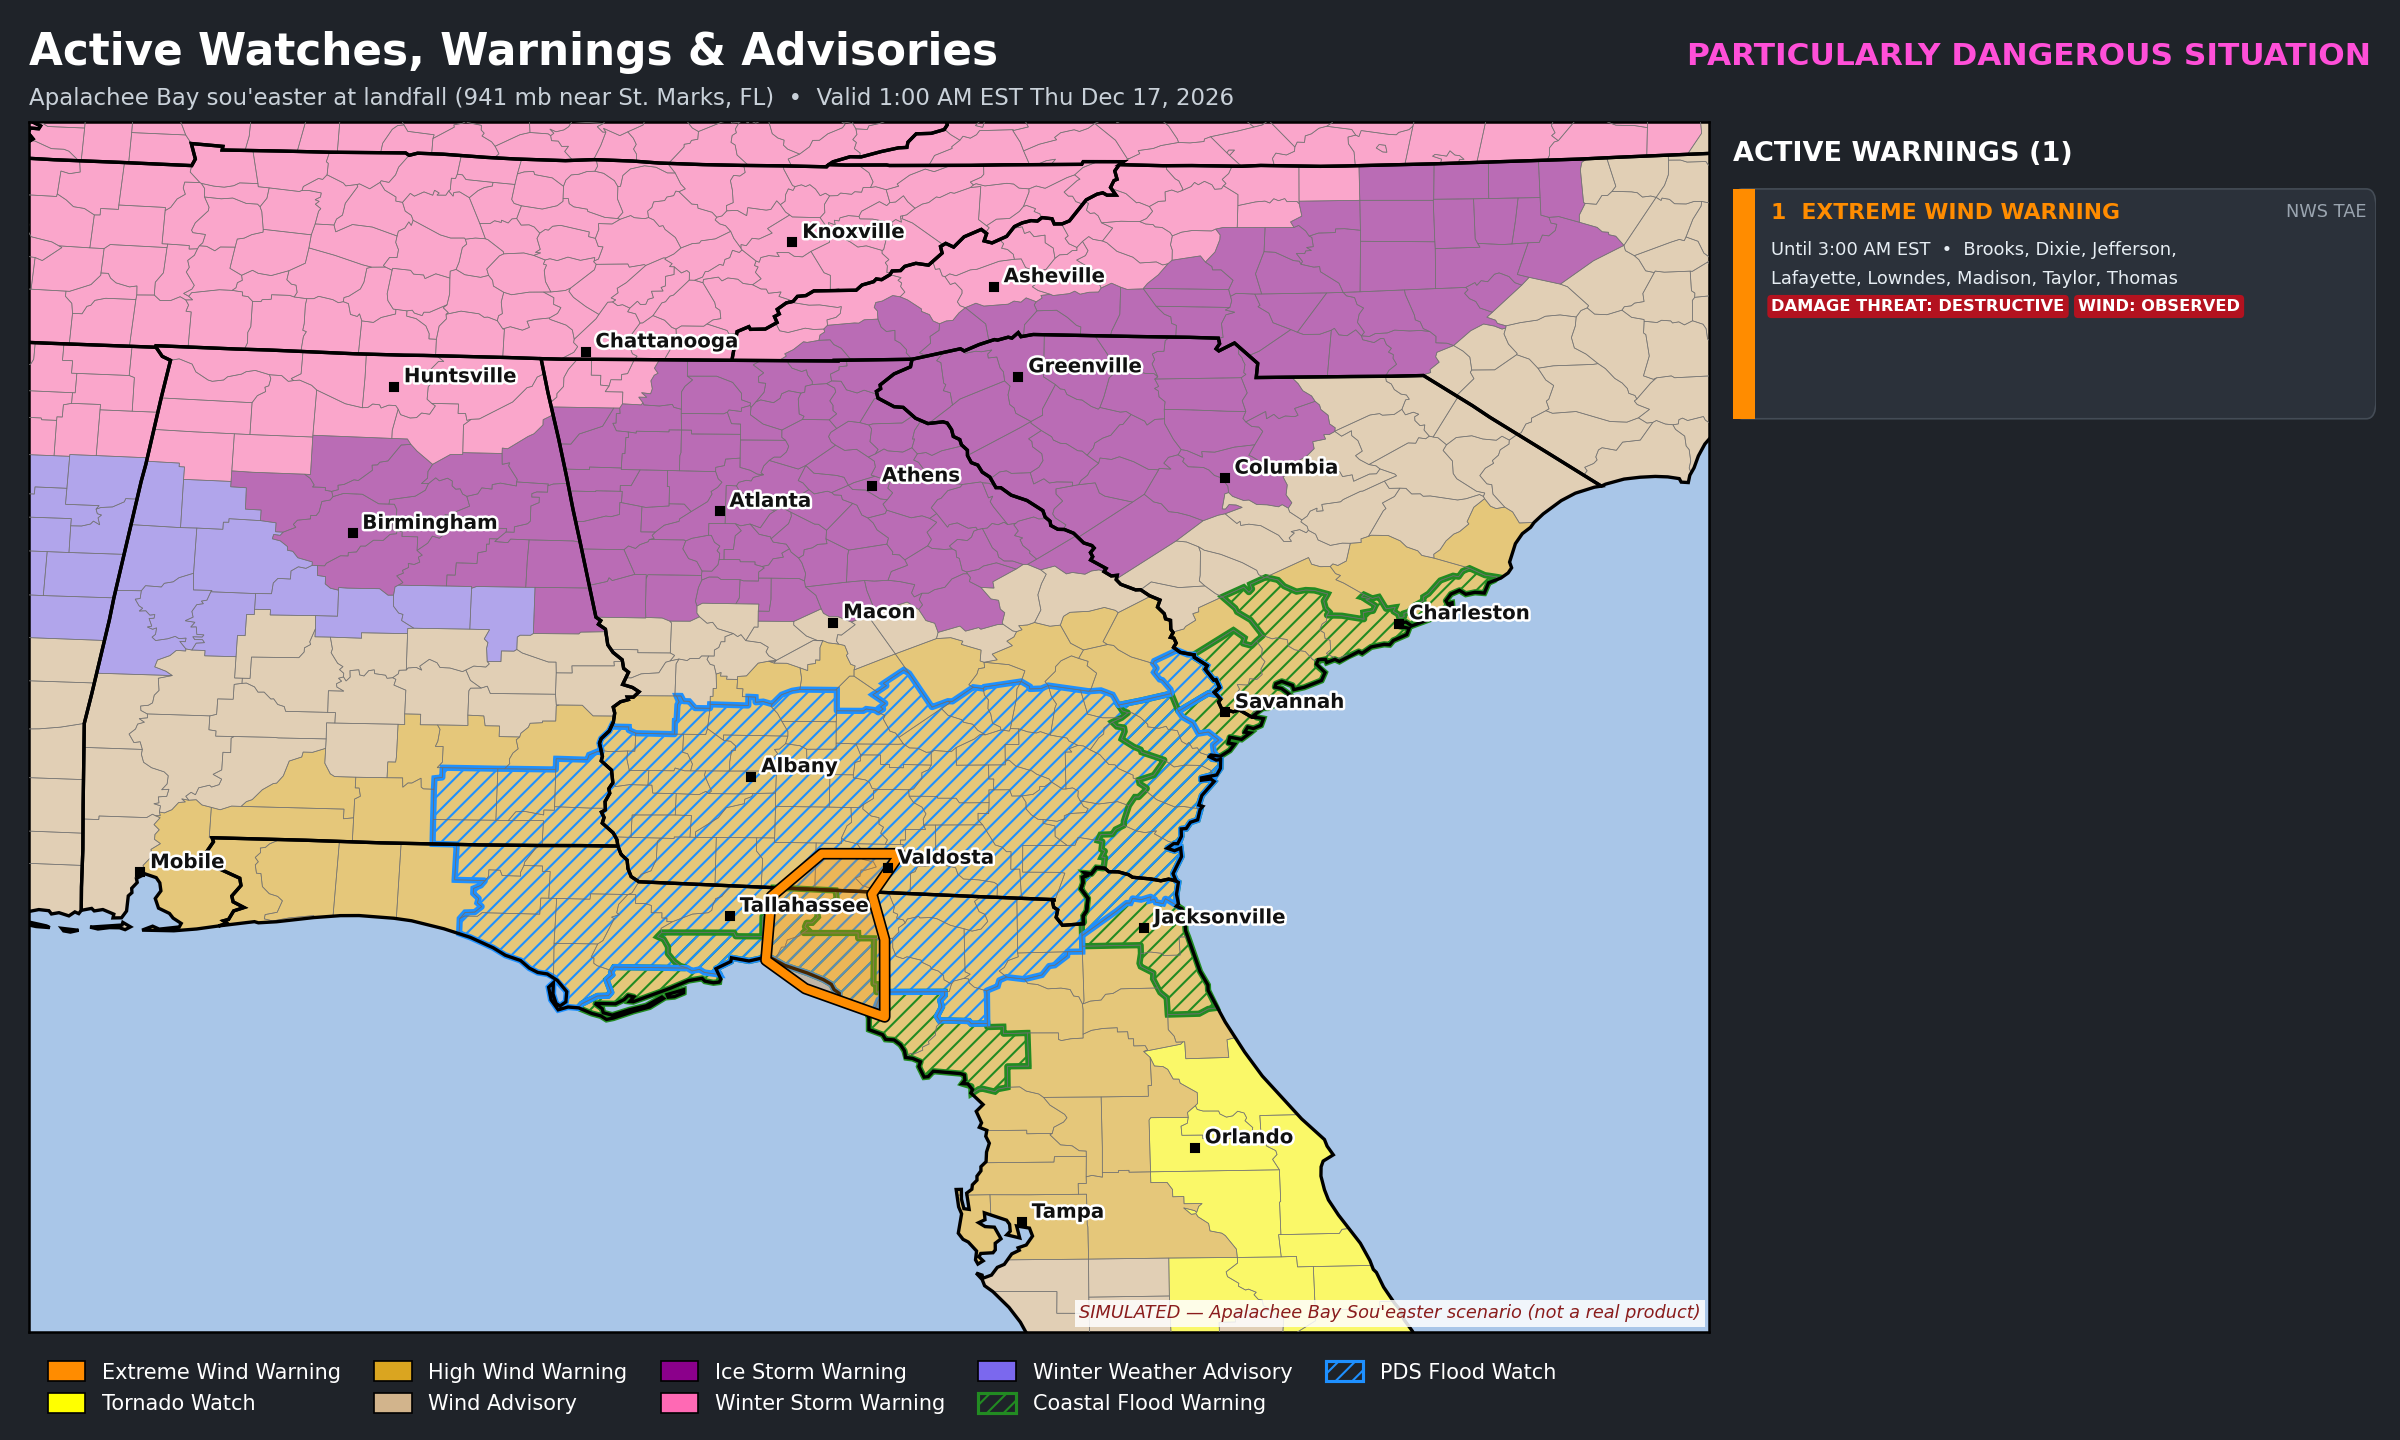
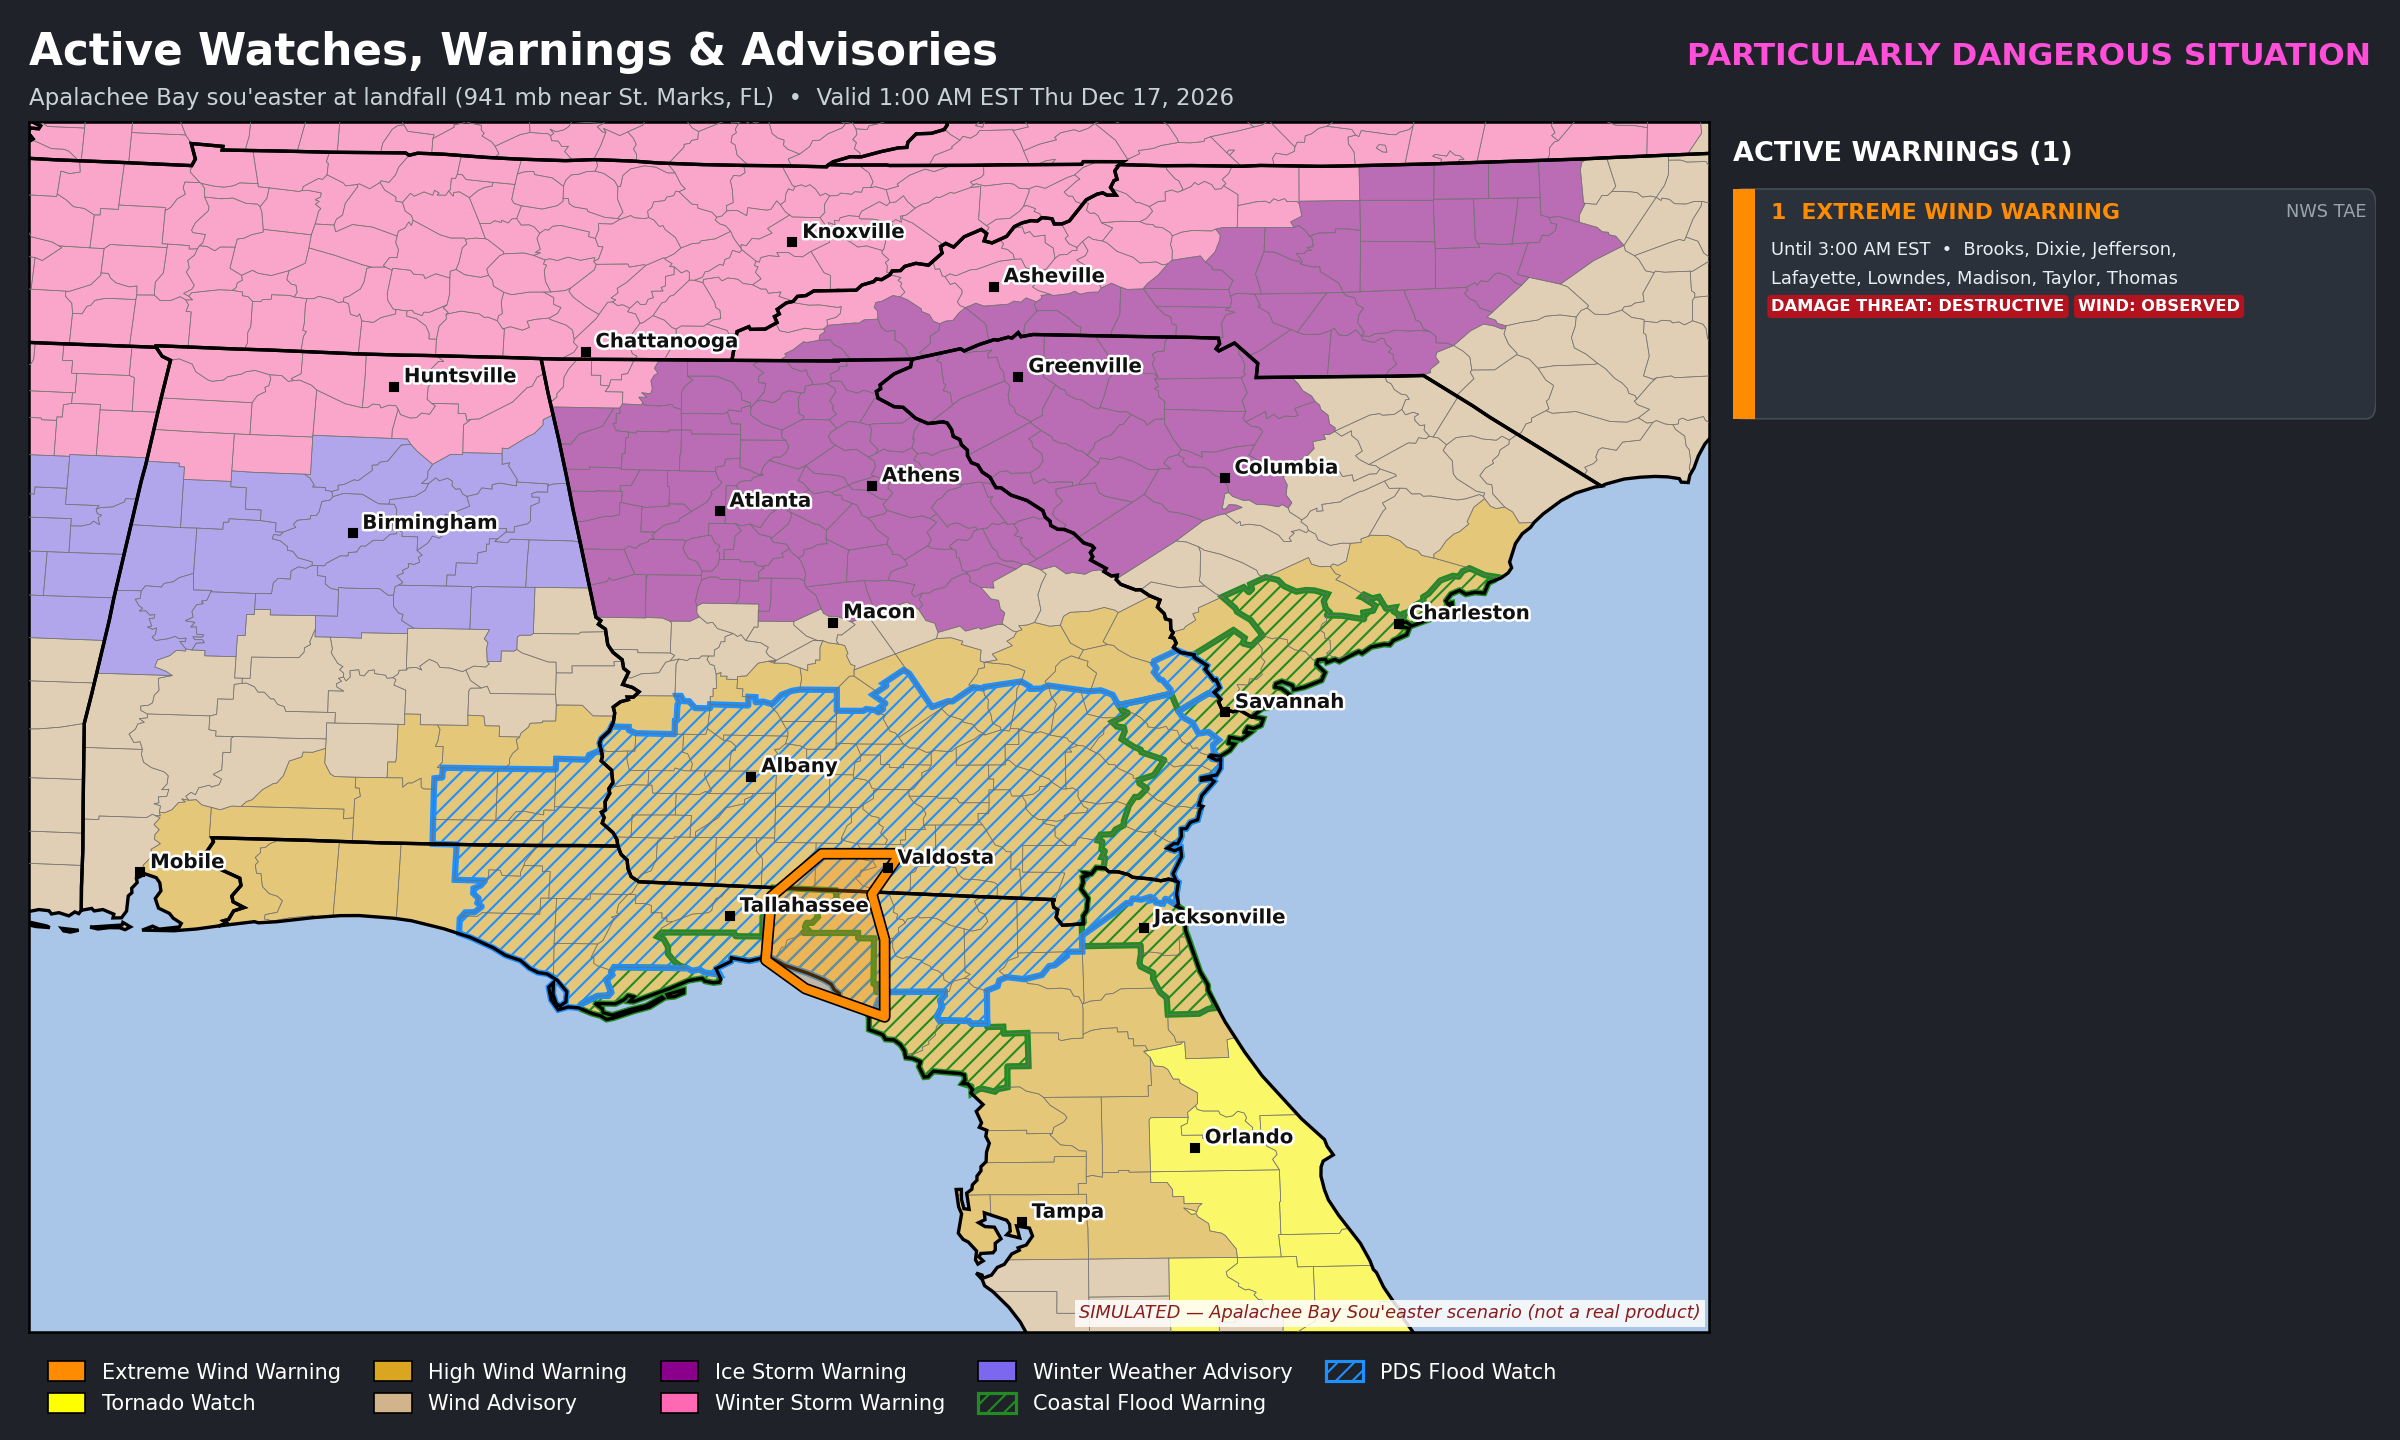
Apalachee: pull Ice Storm Warning back to the GA line
Birmingham and east-central Alabama sit near the dry slot with mostly sleet,
so they move to the Winter Weather Advisory; SCENARIO.md gains ice totals.

Claude-Session: https://claude.ai/code/session_016qAEvTSxuEoK88s5Aye3CY

Changed region(s): [[0.0938, 0.2812, 0.25, 0.4375]]

diff --git a/scenarios/apalachee_soueaster_2026/SCENARIO.md b/scenarios/apalachee_soueaster_2026/SCENARIO.md
@@ -20,7 +20,7 @@ Hour 0 = Tue Dec 15 00Z. December, so local time is EST (UTC−5).
 | Surge | Coastal Flood Warning: 10–15 ft above ground Keaton Beach–Steinhatchee, 8–12 ft St. Marks–Econfina, 4–7 ft Franklin County; multi-tide flooding on the GA/SC coast |
 | Convection | Squall line with embedded supercells across the Big Bend and Florida peninsula Wed afternoon–night; SPC Day 2 Enhanced Risk |
 | Rain | 6–10 in. Big Bend/south Georgia, locally 12 near Valdosta–Waycross, on soils saturated by a record-wet El Niño autumn (FFG 1.5–2.5 in./3 h). WPC: Day 1 (Wed) Moderate Risk; Day 2 (Thu 12Z–Fri 12Z) **High Risk** from Dothan and Albany through Tallahassee and Valdosta as the low loops; **PDS Flood Watch** across the TAE area (FFATAE) stressing floodwaters full of live power lines, debris and sewage |
-| Winter | Ice Storm Warning across most of the wedge: north and central Georgia including Atlanta, east-central Alabama including Birmingham, the Upstate and Midlands of SC, and the NC Piedmont. Winter Storm Warning to the north (north Alabama, NE Mississippi, Tennessee, the southern Appalachians, southern Virginia: 12–24 in. snow, thundersnow). Winter Weather Advisory only as a thin sleet/ice fringe in central Alabama and Mississippi. |
+| Winter | Ice Storm Warning across most of the wedge: north and central Georgia including Atlanta, the Upstate and Midlands of SC, and the NC Piedmont. Winter Storm Warning to the north (north Alabama, NE Mississippi, Tennessee, the southern Appalachians, southern Virginia: 12–24 in. snow, thundersnow). Winter Weather Advisory for central and east-central Alabama (including Birmingham, near the dry slot) and Mississippi: mostly sleet, light ice. Ice accretion: 1.2–1.5 in. (locally 1.8) Upstate SC, 1.0–1.2 NE Georgia, 0.75–1.0 Charlotte, 0.6–0.9 Atlanta. |
 
 ## Files
 
